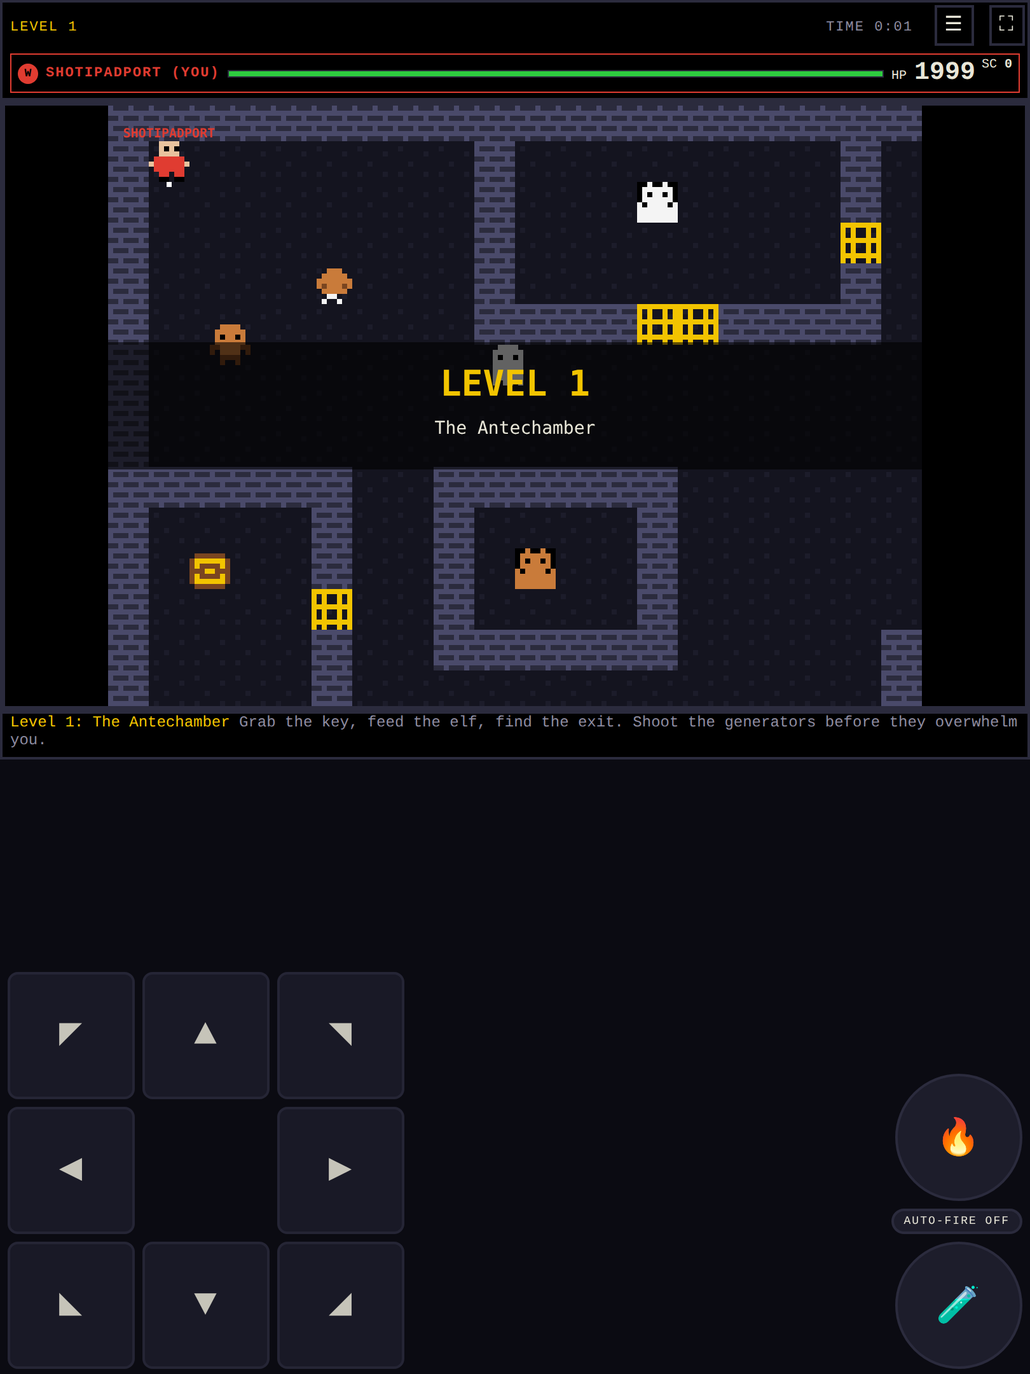
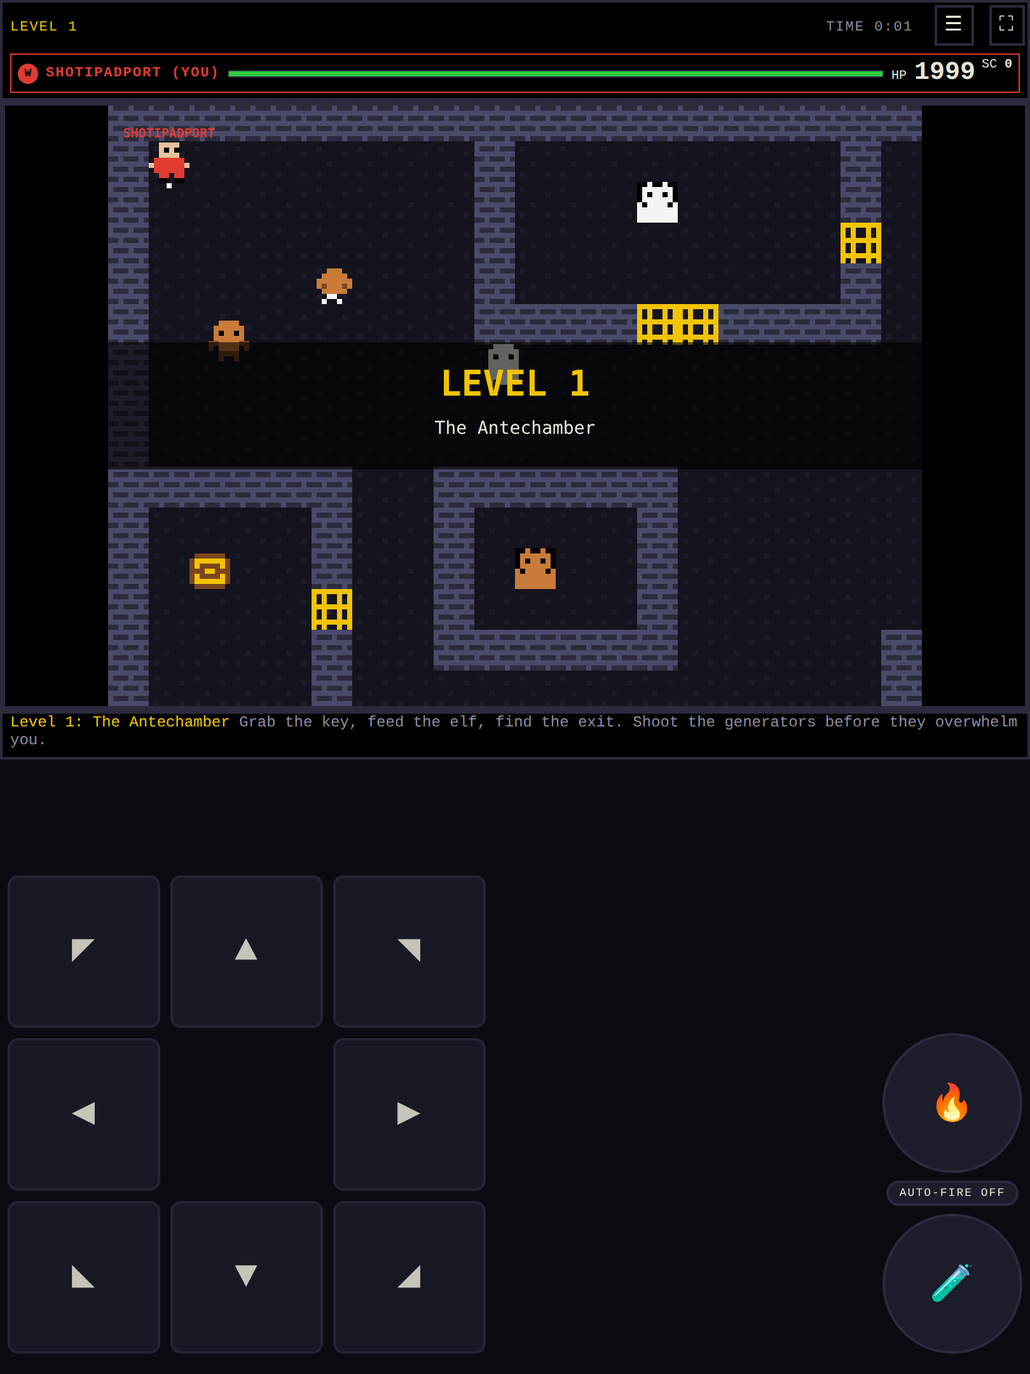
Mobile phone layout follow-up: bigger portrait controls, fixed landscape overlay (#42)
Portrait/tablet "band" mode: the d-pad/fire/potion were sized ~75px on a
~413px-tall Pixel 7 band, leaving a large dead zone above them. Reworked
layoutTouchControls()'s sizing: d-pad cell = min(120, height-budget,
width-budget) where the width budget now jointly solves for the d-pad
column *and* the fire/potion column beside it (fire = min(110, cell*1.3))
instead of an independent width fraction, since the two share the same
row and fire's own width depends on cell. Anchors the block to the bottom
of the band with ~16px padding + safe-area. Result: 90px cells / 110px
fire on Pixel 7 (was ~75px), 120px/110px (capped) on iPad, iPhone SE's
~211px band still degrades to ~54px cells as before.

Landscape "overlay" mode (short phones, d-pad floats over the canvas):
- Cap the d-pad at 80px/gap-8 (was reading the same vw-based clamp as
  everywhere else, up to 84px near-opaque) — shrunk further only on the
  tightest viewport (iPhone SE landscape) where even 80px would climb
  over the HUD once #log's own height is accounted for.
- Idle opacity .45 (was .8, "near-full" over the map), .9 while a control
  is actually held (:active, or .on for the auto-fire toggle).
- #log moved off the bottom (where the fixed-position d-pad could and did
  cover its text) to a translucent 2-line strip overlaying the *top* of
  the canvas, right under the HUD — shares the "cv" grid area with
  .cv-wrap (stacked via z-index) rather than reserving its own row, which
[…]

diff --git a/client/game.js b/client/game.js
@@ -777,33 +777,96 @@ function resetDesktopCanvas() {
   if (sceneCv && (sceneCv.width !== VIEW_W || sceneCv.height !== VIEW_H)) { sceneCv.width = VIEW_W; sceneCv.height = VIEW_H; }
 }
 
-/** Sizes the on-screen d-pad cells and fire/potion buttons from the *actual* height available to
- *  them — never raw vw, which is what let a fire/potion/auto-fire overflow off-screen on a narrow
- *  phone pre-#42 (client/index.html's clamp() is now only a same-origin fallback for a frame where
- *  this hasn't run yet). In the normal portrait/tablet "band" layout that's `controlsAvailH`
- *  (computeCanvasLayout's leftover height below the fitted canvas — client/layout.js); in the
- *  short-landscape "overlay" layout (no reserved band — the pad floats over the canvas edges
- *  instead) it's `vh - hudH - logH`, since that's the vertical span the *floating* pad must fit
- *  inside without climbing over the HUD strip above it or the log strip below it — both are real,
- *  opaque, normal-flow content in that layout too (only the canvas is meant to be floated over). */
-function layoutTouchControls(touchShown, availH) {
+// Portrait/tablet "band" sizing constants (post-#31 follow-up review). DPAD_PAD_V is the controls
+// band's own top+bottom padding (client/style.css gives #touch this exact padding, so the two stay
+// in lock-step) and DPAD_GAP matches .input-dpad's CSS gap (also shared with the landscape
+// "overlay" d-pad's separate fixed 80px/gap-8 rule — see client/style.css) — both used for the
+// *height* budget below pretty much as the review specified. The *width* budget is not the review's
+// literal "floor((viewportW * 0.58 - 2*gap) / 3)": on a 412px-wide phone (Pixel 7) 58% of the
+// viewport can't fit three 90px cells no matter how gap/padding are tuned (3*90 alone is already
+// 270px, more than 0.58*412=239px) — short of both the ">= 90px at a >= 380px band" requirement
+// this same review adds to test/e2e-mobile.mjs and the "~110px on Pixel 7" example it gives. What
+// actually shares the row with the d-pad is the fire/potion/auto-fire column, whose own width is
+// itself cell-dependent (FIRE_MULT below) — cellFromWidthBudget() solves that joint constraint
+// directly (verified against real devices below) rather than reserving an independent width
+// fraction that can't account for it.
+const DPAD_PAD_V = 16, DPAD_GAP = 8, TOUCH_SIDE_PAD = 6, TOUCH_COL_GAP = 4, FIRE_CAP = 110, FIRE_MULT = 1.3;
+// Overlay mode's #touch keeps client/index.html's base `.touch` rule (position: fixed, anchored
+// `bottom: 10px + safe-area-inset-bottom`) rather than the band layout's own padding — that bottom
+// offset has to come out of the height budget too (plus a couple of px of rounding slack), or a
+// d-pad sized to exactly fill "vh - hudH" ends up anchored 10px+ *higher* than assumed and climbs
+// into the HUD strip regardless of how small the cell itself is capped. Deliberately ignores actual
+// safe-area-inset-bottom (unreadable from plain JS without a live probe element) — a real notch
+// there would need slightly more, but none of the devices this game supports have one in landscape.
+const OVERLAY_BOTTOM_OFFSET = 12;
+// .input-dpad's own CSS padding in this mode (client/index.html's "@media (orientation: landscape)
+// and (max-height: 500px)" rule — the translucent backing box around the pad) adds this much on
+// *both* top and bottom of the d-pad's rendered height, on top of the cells/gaps themselves —
+// forgetting it here undercounts the pad's real height by 2*OVERLAY_DPAD_PAD and reintroduces the
+// exact HUD-overlap this whole function exists to prevent.
+const OVERLAY_DPAD_PAD = 6;
+// The actions column (fire, the auto-fire pill, potion, stacked) is bottom-anchored in the same
+// fixed box as the d-pad, so it needs the same "clear the HUD/#log strip stacked at the top" check
+// — its own non-fire overhead (auto-fire pill height + the column's own two internal gaps +
+// top/bottom padding, all from .input-actions's CSS) measured empirically at ~68px, since the
+// auto-fire label can wrap onto a second line at this column's width, making it awkward to derive
+// from the individual CSS values exactly.
+const OVERLAY_ACTIONS_OVERHEAD = 68;
+
+/** The largest d-pad cell (unfloored, uncapped) that leaves enough width for the fire/potion column
+ *  it sits beside — `TOUCH_SIDE_PAD*2 + TOUCH_COL_GAP + DPAD_GAP*2` is everything *else* horizontal
+ *  in the row (#touch's own side padding, the gap between the d-pad and action columns, and the
+ *  d-pad's own two internal gaps); what's left splits between `3` d-pad cells and one fire/potion
+ *  circle (`FIRE_MULT` cell-widths wide, per the spec, until it hits its own `FIRE_CAP`). Solved as
+ *  two linear regimes rather than guessed at: while the fire diameter implied by `cell` is still
+ *  under FIRE_CAP, growing cell grows both cell*3 and cell*FIRE_MULT together (denominator `3 +
+ *  FIRE_MULT`); once fire would exceed FIRE_CAP it's pinned there instead, so from that point only
+ *  the d-pad's own `3*cell` keeps growing against the remaining width. */
+function cellFromWidthBudget(vw) {
+  const overhead = TOUCH_SIDE_PAD * 2 + TOUCH_COL_GAP + DPAD_GAP * 2;
+  const uncappedFireCell = (vw - overhead) / (3 + FIRE_MULT);
+  if (uncappedFireCell * FIRE_MULT <= FIRE_CAP) return uncappedFireCell;
+  return (vw - overhead - FIRE_CAP) / 3;
+}
+
+/** Sizes the on-screen d-pad cells and fire/potion buttons from the *actual* height (and, via
+ *  cellFromWidthBudget(), width) available to them — never raw vw alone, which is what let a fire/
+ *  potion/auto-fire overflow off-screen on a narrow phone pre-#42 (client/index.html's clamp() is
+ *  now only a same-origin fallback for a frame where this hasn't run yet).
+ *
+ *  `availH` means two different things depending on `overlayControls`, both supplied by the
+ *  caller: in the normal portrait/tablet "band" layout it's `controlsAvailH` — computeCanvasLayout's
+ *  leftover height below the fitted canvas (client/layout.js); in the short-landscape "overlay"
+ *  layout (no reserved band — the pad floats over the canvas edges instead) it's `vh - hudH - logH`,
+ *  the room the *floating* d-pad and fire/potion/auto-fire column must fit inside without climbing
+ *  over the HUD strip and the translucent #log strip stacked right under it (both real, opaque
+ *  content there too — only the canvas is meant to be floated over). Overlay's own 80px/gap-8 CSS
+ *  cap (client/style.css's ".gc-controls-overlay .input-dpad" rule) and fire/potion's existing
+ *  ~84px CSS fallback are both a *ceiling* ("may stay in the right margin as they are" per the #42
+ *  follow-up review) — this only shrinks either *below* that on the tightest supported viewport
+ *  (iPhone SE landscape, 320px tall total), where even those defaults don't clear the HUD/#log
+ *  stacked at the top. */
+function layoutTouchControls(touchShown, overlayControls, availH, vw) {
   if (!touchEl) return;
   if (!touchShown) { touchEl.style.removeProperty('--dpad-cell'); touchEl.style.removeProperty('--fire-size'); return; }
-  const box = touchEl.getBoundingClientRect();
-  const w = box.width || 0;
-  const h = availH || box.height;
-  const gap = 6, padY = 10, padX = 14;
-  const cellFromHeight = (h - padY - gap * 2) / 3;
-  const cellFromWidth = (w * 0.55 - padX - gap * 2) / 3; // d-pad gets roughly half the band's width, actions the rest
-  // No lower floor: the #42 spec's ~80-100px target is only ever a *ceiling* here (`Math.min(100, ...)`)
+  if (overlayControls) {
+    const overlayCell = Math.max(1, Math.min(80, Math.floor((availH - OVERLAY_BOTTOM_OFFSET - OVERLAY_DPAD_PAD * 2 - DPAD_GAP * 2) / 3)));
+    touchEl.style.setProperty('--dpad-cell', overlayCell + 'px');
+    const overlayFire = Math.max(1, Math.min(84, Math.floor((availH - OVERLAY_BOTTOM_OFFSET - OVERLAY_ACTIONS_OVERHEAD) / 2)));
+    touchEl.style.setProperty('--fire-size', overlayFire + 'px');
+    return;
+  }
+  const cellFromHeight = (availH - DPAD_PAD_V * 2 - DPAD_GAP * 2) / 3;
+  const cellFromWidth = cellFromWidthBudget(vw);
+  // No lower floor: the #42 spec's cap (120px) is only ever a *ceiling* here (`Math.min(120, ...)`)
   // — clamping a *minimum* on top, as an earlier version of this did, would force cells back up
   // past whatever space the math just proved is actually available, overflowing on the smallest
-  // supported viewport (iPhone SE landscape) exactly the way raw vw units used to everywhere.
-  const cell = Math.max(1, Math.min(100, Math.floor(Math.min(cellFromHeight, cellFromWidth))));
+  // supported viewport (iPhone SE) exactly the way raw vw units used to everywhere. iPhone SE's
+  // own ~211px band naturally degrades this to its old ~50-55px cells (height-bound there, not
+  // width-bound) without any special-casing.
+  const cell = Math.max(1, Math.min(120, Math.floor(Math.min(cellFromHeight, cellFromWidth))));
   touchEl.style.setProperty('--dpad-cell', cell + 'px');
-  // fire+gap+auto-fire+gap+potion must fit in `h` too (the fixed 0.40 factor below budgets ~20px
-  // for the auto-fire pill plus two gaps; see .input-autofire's CSS for its actual rendered size).
-  const fire = Math.max(1, Math.min(100, Math.floor(h * 0.40)));
+  const fire = Math.max(1, Math.min(FIRE_CAP, Math.floor(cell * FIRE_MULT)));
   touchEl.style.setProperty('--fire-size', fire + 'px');
 }
 
@@ -821,10 +884,6 @@ function layoutGame() {
 
   const { w: vw, h: vh } = viewportSize();
   const portrait = vh >= vw;
-  const sessionBox = sessionEl.getBoundingClientRect(); // the grid container's own box (post safe-area padding) — see the doc comment above
-  const hudH = hudEl ? hudEl.getBoundingClientRect().height : 0;
-  const logH = logEl ? logEl.getBoundingClientRect().height : 0;
-  const touchShown = !!touchEl && touchEl.classList.contains('on') && getComputedStyle(touchEl).display !== 'none';
   // Portrait reserves a band below the canvas for the d-pad; landscape *phones* (short viewport)
   // instead let it overlay the canvas edges, matching the CSS "@media (orientation: landscape) and
   // (max-height: 500px)" rule that gives the pad a translucent backing specifically so it stays
@@ -835,8 +894,16 @@ function layoutGame() {
   // leave a fully-opaque d-pad sitting on top of the canvas there with nothing subtracted from the
   // fit, genuinely overlapping it (caught by test/e2e-mobile.mjs's #34 canvas-geometry scenario on
   // a landscape iPad). client/style.css keys its own grid-vs-overlay split off this same class.
+  // Toggled *before* measuring #hud/#log below (rather than after, as an earlier version of this
+  // did) so a portrait->landscape-overlay transition never measures a stale, previous-mode #log
+  // height — #log's own rendered size differs between the two (client/style.css).
   const overlayControls = !portrait && vh <= 500;
   document.body.classList.toggle('gc-controls-overlay', overlayControls);
+
+  const sessionBox = sessionEl.getBoundingClientRect(); // the grid container's own box (post safe-area padding) — see the doc comment above
+  const hudH = hudEl ? hudEl.getBoundingClientRect().height : 0;
+  const logH = logEl ? logEl.getBoundingClientRect().height : 0;
+  const touchShown = !!touchEl && touchEl.classList.contains('on') && getComputedStyle(touchEl).display !== 'none';
   // A fixed reservation, not touchEl's own measured height (#31's original approach): #42 sizes
   // the d-pad/fire/potion *from* the band's leftover height (layoutTouchControls() below), so
   // feeding that same rendered height back in here as the *estimate* for how much to reserve would
@@ -844,13 +911,18 @@ function layoutGame() {
   // the leftover, which grows the controls, which grows next pass's reservation, and so on, with no
   // guarantee of converging back to "use the full width". CONTROLS_MIN_H matches the grid's own
   // `minmax(110px, 1fr)` floor (client/style.css) plus a little breathing room: the fit only needs
-  // to guarantee *at least* that much room exists, since the grid's flexible row (or, in overlay
-  // mode, layoutTouchControls' own vh-hudH-logH budget) gives the band whatever's actually left —
-  // always >= this minimum, usually quite a bit more on anything but the shortest phones.
+  // to guarantee *at least* that much room exists, since the grid's flexible row gives the band
+  // whatever's actually left — always >= this minimum, usually quite a bit more on anything but the
+  // shortest phones. Irrelevant in overlay mode: the pad there is a fixed-size CSS overlay (below),
+  // not sized from any reserved band, so nothing needs reserving from the canvas fit at all.
   const controlsH = touchShown && !overlayControls ? CONTROLS_MIN_H : 0;
+  // In overlay mode #log no longer claims its own grid row (client/style.css) — it floats over the
+  // top of the canvas instead (translucent, 2 lines) — so the canvas fit shouldn't reserve room
+  // for it there; only in the normal band layout does logH still need subtracting.
+  const fitLogH = overlayControls ? 0 : logH;
 
   const layout = computeCanvasLayout({
-    vw: sessionBox.width, vh: sessionBox.height, hudH, logH, controlsH,
+    vw: sessionBox.width, vh: sessionBox.height, hudH, logH: fitLogH, controlsH,
     levelW: VIEW_W, levelH: VIEW_H, dpr: window.devicePixelRatio || 1,
   });
   cv.style.width = layout.width + 'px';
@@ -862,10 +934,12 @@ function layoutGame() {
     sceneCv.width = layout.backingWidth; sceneCv.height = layout.backingHeight;
   }
 
-  // Overlay mode has no reserved band to measure a leftover from (computeCanvasLayout's
-  // controlsAvailH assumes a controlsH that's 0 there) — the floating pad's real budget is
-  // whatever vertical room the HUD/log strips *don't* already occupy, see layoutTouchControls().
-  layoutTouchControls(touchShown, overlayControls ? Math.max(0, vh - hudH - logH) : layout.controlsAvailH);
+  // Overlay mode reserves nothing in the canvas fit (controlsH is 0 there, see above) — the canvas
+  // itself gets the full vh-hudH, since #log there is a translucent overlay drawn *over* the top of
+  // it (client/style.css), not a reserved row. But the bottom-anchored d-pad still has to clear
+  // both real, opaque strips stacked at the top of the screen (HUD, then #log right under it) —
+  // its own budget is `vh - hudH - logH`, not just `vh - hudH`.
+  layoutTouchControls(touchShown, overlayControls, overlayControls ? Math.max(0, vh - hudH - logH) : layout.controlsAvailH, vw);
 
   if (rotateHint) {
     const tooShort = vh < 360;

diff --git a/client/style.css b/client/style.css
@@ -168,11 +168,13 @@ nav.top .nav-links { display: flex; align-items: center; gap: 18px; flex: 1 1 au
     padding: 0 env(safe-area-inset-right, 0px) env(safe-area-inset-bottom, 0px) env(safe-area-inset-left, 0px);
   }
   body.gc-playing #hud, body.gc-playing .cv-wrap, body.gc-playing #log, body.gc-playing #touch { min-width: 0; }
-  /* Short landscape phones (see the "gc-controls-overlay" rule below): the d-pad/fire/potion float
-     over the canvas edges instead of getting a reserved row, so there is no "ctrl" track at all —
-     client/game.js toggles this class from the same `overlayControls` check that used to (#31)
-     gate whether computeCanvasLayout() got a nonzero controlsH. */
-  body.gc-playing.gc-controls-overlay #session.on { grid-template-areas: "hud" "cv" "log"; grid-template-rows: auto auto auto; }
+  /* Short landscape phones: the d-pad/fire/potion float over the canvas edges instead of getting a
+     reserved row, so there is no "ctrl" track at all — client/game.js toggles this class from the
+     same `overlayControls` check that used to (#31) gate whether computeCanvasLayout() got a
+     nonzero controlsH. #log drops out of the grid here too (no "log" row): it overlays the top of
+     the canvas instead (further down) rather than sitting in a strip the floating pad could cover —
+     "cv" gets all the space "hud" doesn't take. */
+  body.gc-playing.gc-controls-overlay #session.on { grid-template-areas: "hud" "cv"; grid-template-rows: auto 1fr; }
 
   body.gc-playing #game.on, body.gc-playing .stage { display: contents; }
   body.gc-playing #hud { grid-area: hud; width: 100%; margin: 0; }
@@ -187,10 +189,35 @@ nav.top .nav-links { display: flex; align-items: center; gap: 18px; flex: 1 1 au
     grid-area: cv; width: 100%; margin: 0 auto; aspect-ratio: auto; display: flex; justify-content: center;
     border: 0; outline: 4px solid var(--line); outline-offset: -4px;
   }
-  body.gc-playing #log { grid-area: log; width: 100%; margin: 0; height: 38px !important; }
+  body.gc-playing:not(.gc-controls-overlay) #log { grid-area: log; width: 100%; margin: 0; height: 38px !important; }
+  /* Overlay mode (short landscape phones): #log shares the "cv" grid area with .cv-wrap instead of
+     getting its own row (two grid items can occupy the same area — they simply stack, ordered by
+     z-index) — align-self:start plus a fixed max-height keeps it a thin 2-line strip pinned to the
+     *top* of that shared cell rather than stretching to fill it, sitting safely above the d-pad/
+     fire/potion, which are anchored to the *bottom* of the viewport (client/index.html's .touch
+     rule) — the two can never collide. Translucent so the dungeon underneath still reads through;
+     pointer-events:none so a tap meant for the canvas beneath (e.g. the death screen's "continue")
+     isn't swallowed by it. */
+  body.gc-playing.gc-controls-overlay #log {
+    grid-area: cv; align-self: start; justify-self: stretch; z-index: 20;
+    width: 100%; margin: 0; max-height: 40px; font-size: 10px !important; line-height: 1.3;
+    background: rgba(0,0,0,.6); pointer-events: none;
+  }
   body.gc-playing:not(.gc-controls-overlay) #touch {
     grid-area: ctrl; position: static; display: flex !important;
-    width: 100%; height: 100%; margin: 0; inset: auto; padding: 4px 6px; box-sizing: border-box;
+    width: 100%; height: 100%; margin: 0; inset: auto; box-sizing: border-box;
+    /* Every one of these numbers is read straight back out by client/game.js's
+       cellFromWidthBudget()/layoutTouchControls() (TOUCH_SIDE_PAD, TOUCH_COL_GAP, DPAD_PAD_V) —
+       change one place, change the other, or the cell-size math stops matching what's actually
+       rendered (the "no overflow" guarantee depends on the two agreeing exactly). ~16px bottom
+       padding + safe-area anchors the block to the bottom of the band; the dead space this can
+       leave *above* the pad when the band is much taller than the pad's own content is intentional
+       (see layoutTouchControls()'s doc comment): the pad is sized to be comfortably big first, not
+       to fill the whole band. Side padding (6px) and the gap between the d-pad/action columns
+       (4px) are deliberately tight — on a 412px-wide phone there isn't width to spare once a
+       110px-diameter fire button sits beside a 90px-cell d-pad. */
+    padding: 16px 6px calc(16px + env(safe-area-inset-bottom, 0px)) 6px;
+    gap: 4px;
   }
 
   /* .cv-wrap/#hud still need the same "!important wins a specificity tie against index.html's
@@ -273,6 +300,29 @@ body.gc-playing { overscroll-behavior: none; }
   body.gc-playing #hud { padding: 3px 5px !important; font-size: 10px !important; background: rgba(0,0,0,.5); }
   body.gc-playing #hud .hud-head { min-height: 22px; padding-right: 84px; }
   body.gc-playing #hud .pp { padding: 2px 4px; }
+
+  /* Overlay d-pad: 80px/gap-8 is a *ceiling* (3*80 + 2*8 = 256px square, small enough to leave the
+     middle of the map clear on every supported landscape phone) — client/game.js's
+     layoutTouchControls() still sets --dpad-cell here (unlike --fire-size, left alone in this
+     mode), shrinking it further whenever even 256px is too tall for the shortest supported
+     viewport (iPhone SE landscape, only 320px, HUD included) to fit without climbing over the HUD
+     strip above it. var()'s fallback (flat 80px) only matters for the one frame before that first
+     runs. */
+  body.gc-playing.gc-controls-overlay .input-dpad { grid-template-columns: repeat(3, var(--dpad-cell, 80px)); grid-template-rows: repeat(3, var(--dpad-cell, 80px)); gap: 8px; }
+
+  /* Idle vs. held opacity (previously a flat .8 regardless of press state, ie. "near-full" over the
+     map): faint until actually touched, so the dungeon underneath reads clearly, then opaque enough
+     to see which control is currently held. :active is the browser's own "pointer down on this
+     element" state — already correct per-control with no JS bookkeeping needed, and it clears on
+     pointerleave/up the same way input.js's own held-state tracking does. */
+  body.gc-playing.gc-controls-overlay .input-dir,
+  body.gc-playing.gc-controls-overlay .input-fire,
+  body.gc-playing.gc-controls-overlay .input-potion,
+  body.gc-playing.gc-controls-overlay .input-autofire { opacity: .45; }
+  body.gc-playing.gc-controls-overlay .input-dir:active,
+  body.gc-playing.gc-controls-overlay .input-fire:active,
+  body.gc-playing.gc-controls-overlay .input-potion:active,
+  body.gc-playing.gc-controls-overlay .input-autofire.on { opacity: .9; }
 }
 
 /* High-score initials modal (client/highscore.js) — must stay usable with no page scroll down to a

diff --git a/client/index.html b/client/index.html
@@ -140,8 +140,9 @@
      fallback (the original vw-based clamp()) is what actually applies in the landscape-phone
      "overlay" layout below, where there's no reserved band to measure (client/game.js removes the
      custom properties entirely in that mode rather than setting them to something meaningless). */
+  /* gap: 8px matches client/game.js's DPAD_GAP, which the band-mode cell-size formula assumes. */
   .input-dpad { display: grid; grid-template-columns: repeat(3, var(--dpad-cell, clamp(56px, 25vw, 84px))); grid-template-rows: repeat(3, var(--dpad-cell, clamp(56px, 25vw, 84px)));
-    gap: 6px; pointer-events: auto; }
+    gap: 8px; pointer-events: auto; }
   .input-dpad, .input-actions { touch-action: none; }
   .input-dir { padding: 0; font-size: clamp(14px, 8vw, 30px); line-height: 1; opacity: .85; border-radius: 8px; }
   .input-dir-mid { visibility: hidden; pointer-events: none; }
@@ -188,10 +189,11 @@
   /* Landscape phones (short viewport): the pad overlays the canvas edges instead of reserving a
      full-width band below it (client/game.js's layoutGame() only subtracts controls height from
      the fitted canvas box in portrait) — a translucent backing keeps each control legible over
-     whatever's rendered underneath. */
+     whatever's rendered underneath. Idle/held opacity and the d-pad's fixed size cap are set in
+     client/style.css instead (scoped to body.gc-controls-overlay, more precise than this bare
+     media query — see that file's "@media (orientation: landscape) and (max-height: 500px)" block). */
   @media (orientation: landscape) and (max-height: 500px) {
     .input-dpad, .input-actions { background: rgba(0,0,0,.3); border-radius: 16px; padding: 6px; }
-    .input-dir, .input-fire, .input-potion, .input-autofire { opacity: .8; }
   }
 </style>
 </head>

diff --git a/client/sw.js b/client/sw.js
@@ -12,7 +12,7 @@ import { shouldHandle, versionedUrl, PRECACHE_URLS } from './sw-rules.js';
 // Bump this whenever the precached shell changes for a reason *other* than the asset fingerprint
 // below, so activate() drops the previous cache instead of serving stale assets forever. Plain
 // string constant — there's no build step to stamp one in.
-const SW_VERSION = 'v24';
+const SW_VERSION = 'v25';
 
 // Cache-busting (#38): server/index.js replaces this literal token with its running
 // ASSET_VERSION every time it serves /sw.js — see serveStatic()'s special-case for this one path.
